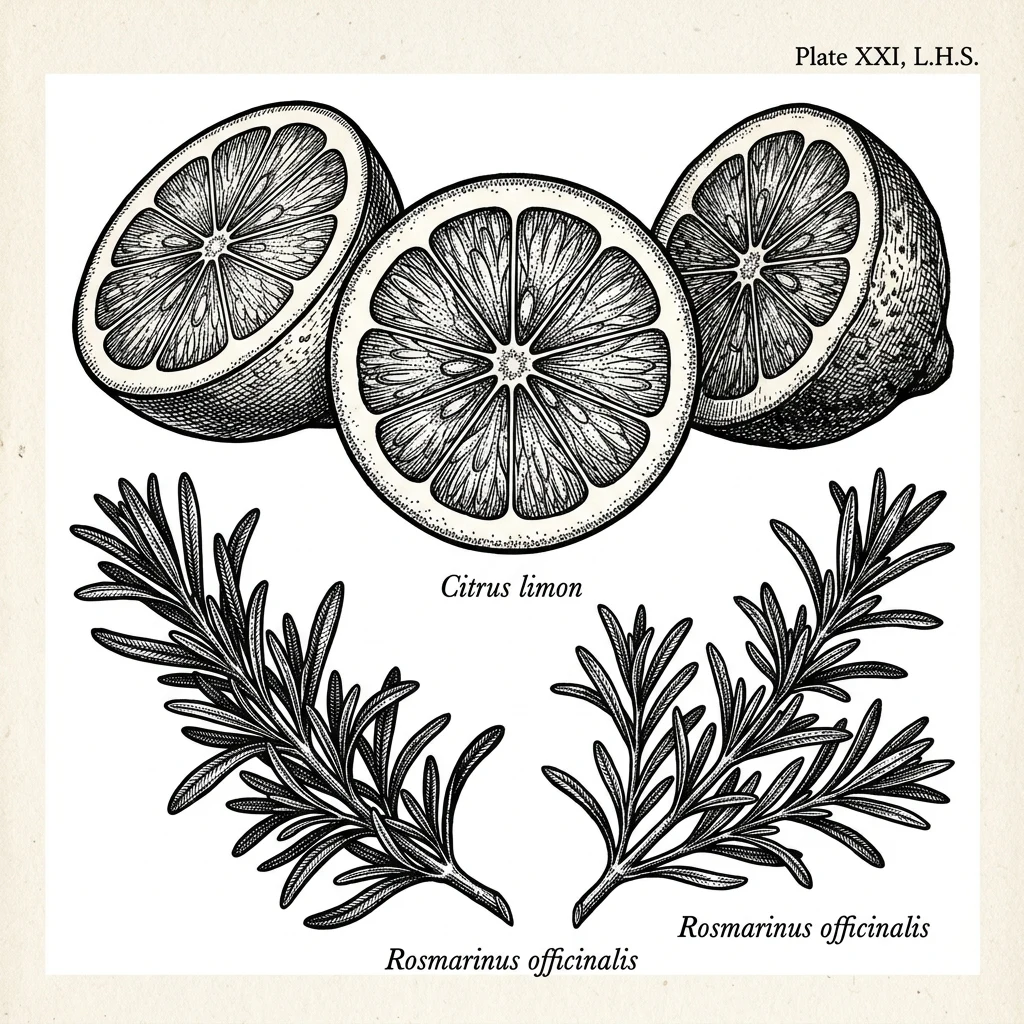
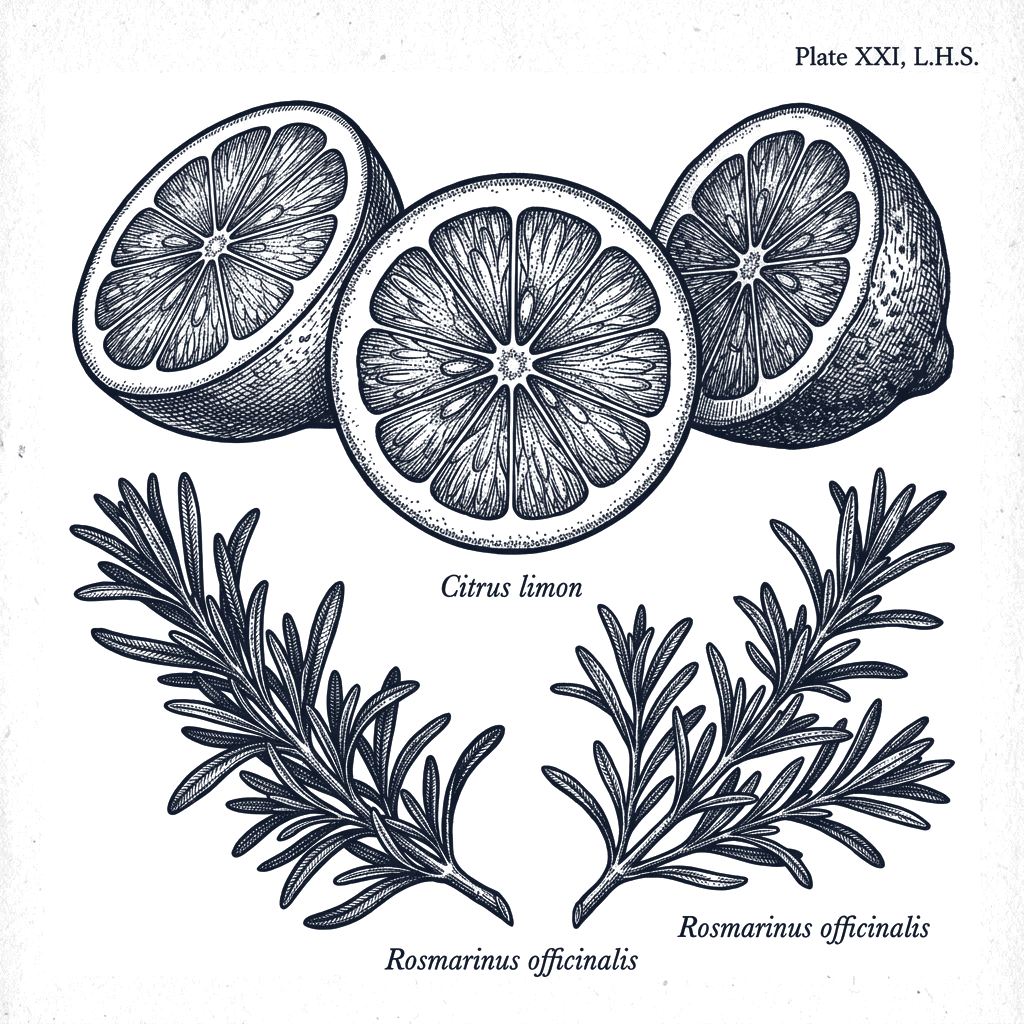
fix(candymar): quitar fondo blanco de ilustraciones con canal alfa transparente real

Changed region(s): [[0.0, 0.0, 1.0, 1.0], [0.4688, 0.875, 0.5, 0.9062]]

diff --git a/src/modules/candymar/pages/CandymarMenu.tsx b/src/modules/candymar/pages/CandymarMenu.tsx
@@ -75,10 +75,13 @@ const STYLES = `
     font-family: 'Montserrat', sans-serif;
   }
 
-  /* Integración de grabado al aguafuerte con papel acuarela */
+  /* Ilustraciones de grabado náutico con canal alfa transparente */
   .etching-art {
-    mix-blend-mode: multiply;
-    filter: contrast(1.15) brightness(0.98);
+    filter: drop-shadow(0 2px 6px rgba(2, 132, 199, 0.08));
+    transition: transform 0.3s ease;
+  }
+  .etching-art:hover {
+    transform: scale(1.02);
   }
 
   .cat-scroll::-webkit-scrollbar {
@@ -271,18 +274,18 @@ export default function CandymarMenu() {
               (Idéntico a la lámina original de referencia)
               ═══════════════════════════════════════════════════════════════ */}
 
-          {/* Cangrejo en el borde superior centro-izquierdo */}
-          <div className="absolute top-2 left-64 sm:left-80 w-28 sm:w-36 pointer-events-none select-none z-10 opacity-90 hidden md:block">
+          {/* Cangrejo en el borde superior */}
+          <div className="absolute -top-3 left-1/3 w-28 sm:w-36 pointer-events-none select-none z-0 opacity-85 hidden md:block">
             <img src={cangrejoGrabado} alt="Crab engraving" className="w-full h-auto etching-art" />
           </div>
 
           {/* Ostras / Mejillones abiertos en la esquina superior derecha */}
-          <div className="absolute -top-4 -right-4 w-40 sm:w-56 pointer-events-none select-none z-10 opacity-90 hidden sm:block">
+          <div className="absolute -top-6 -right-6 w-36 sm:w-48 pointer-events-none select-none z-0 opacity-85 hidden sm:block">
             <img src={ostrasGrabado} alt="Oysters engraving" className="w-full h-auto etching-art" />
           </div>
 
           {/* Rodajas de limón y romero en margen izquierdo superior */}
-          <div className="absolute top-4 -left-2 w-20 sm:w-28 pointer-events-none select-none z-10 opacity-85 hidden sm:block">
+          <div className="absolute -top-4 -left-4 w-20 sm:w-28 pointer-events-none select-none z-0 opacity-80 hidden sm:block">
             <img src={limonRomeroGrabado} alt="Lemon and rosemary" className="w-full h-auto etching-art" />
           </div>
 
@@ -291,7 +294,7 @@ export default function CandymarMenu() {
           <WatercolorSplatterDots className="absolute bottom-6 left-0 w-full h-56 opacity-90 z-0" />
 
           {/* Barra de búsqueda y categorías integradas con delicadeza */}
-          <div className="relative z-20 flex flex-col md:flex-row items-center justify-between gap-4 mb-8 pb-4 border-b border-sky-100">
+          <div className="relative z-10 flex flex-col md:flex-row items-center justify-between gap-4 mb-8 pb-4 border-b border-sky-100">
             <div className="flex items-center gap-2 overflow-x-auto cat-scroll w-full md:w-auto py-1">
               {CATEGORIES.map(cat => {
                 const active = selectedCategory === cat.name;
@@ -336,7 +339,7 @@ export default function CandymarMenu() {
             /* ═══════════════════════════════════════════════════════════════
                LÁMINA EDITORIAL: LOS 4 CUADRANTES DE LA IMAGEN DE REFERENCIA
                ═══════════════════════════════════════════════════════════════ */
-            <div className="relative z-20 space-y-10 sm:space-y-14">
+            <div className="relative z-10 space-y-10 sm:space-y-14">
               {/* FILA 1: MENU SEAFOOD + FISH + MUSSELS */}
               <div className="grid grid-cols-1 lg:grid-cols-12 gap-8 lg:gap-10 items-start">
                 {/* Cuadrante 1: Header Caligráfico + Pescado Grabado (lg:col-span-4) */}
@@ -366,12 +369,12 @@ export default function CandymarMenu() {
                     <span className="text-[#0284c7] font-bold">•</span>
                   </div>
 
-                  {/* EL GRAN PESCADO GRABADO (Idéntico a la imagen original) */}
-                  <div className="w-64 sm:w-76 mt-2 relative">
+                  {/* EL GRAN PESCADO GRABADO (Transparente sin fondo blanco) */}
+                  <div className="w-64 sm:w-76 mt-3 relative">
                     <img
                       src={pescadoGrabado}
                       alt="Fish engraving"
-                      className="w-full h-auto etching-art drop-shadow-xs transform -scale-x-100"
+                      className="w-full h-auto etching-art drop-shadow-xs"
                     />
                   </div>
                 </div>
@@ -512,12 +515,12 @@ export default function CandymarMenu() {
                 {/* Cuadrante 5: LOBSTER • CRAB en Marco con Borde Cian de 2px (lg:col-span-7) */}
                 <section className="lg:col-span-7 relative border-2 border-[#0ea5e9] bg-white/80 backdrop-blur-xs p-6 sm:p-7 rounded-sm shadow-xs flex flex-col justify-between">
                   {/* Cangrejo grabado asomándose en esquina superior derecha */}
-                  <div className="absolute -top-7 -right-7 w-28 sm:w-36 pointer-events-none select-none opacity-90 z-20">
+                  <div className="absolute -top-7 -right-7 w-28 sm:w-36 pointer-events-none select-none opacity-85 z-0">
                     <img src={cangrejoGrabado} alt="Crab" className="w-full h-auto etching-art" />
                   </div>
 
                   {/* Ostras grabadas en esquina inferior derecha */}
-                  <div className="absolute -bottom-6 -right-5 w-24 sm:w-32 pointer-events-none select-none opacity-85 z-20">
+                  <div className="absolute -bottom-6 -right-5 w-24 sm:w-32 pointer-events-none select-none opacity-85 z-0">
                     <img src={ostrasGrabado} alt="Mussels" className="w-full h-auto etching-art" />
                   </div>
 

diff --git a/src/modules/candymar/pages/CandymarPrintTemplate.tsx b/src/modules/candymar/pages/CandymarPrintTemplate.tsx
@@ -41,8 +41,7 @@ const CandymarPrintTemplate = forwardRef<HTMLDivElement>((_props, ref) => {
       <style>{`
         @import url('https://fonts.googleapis.com/css2?family=Dancing+Script:wght@700&family=Montserrat:wght@400;700;800;900&family=Playfair+Display:ital,wght@0,600;0,700;1,400&family=Oswald:wght@600;700&display=swap');
         .etching-art-print {
-          mix-blend-mode: multiply;
-          filter: contrast(1.15) brightness(0.98);
+          filter: drop-shadow(0 1px 3px rgba(2, 132, 199, 0.08));
         }
       `}</style>
 
